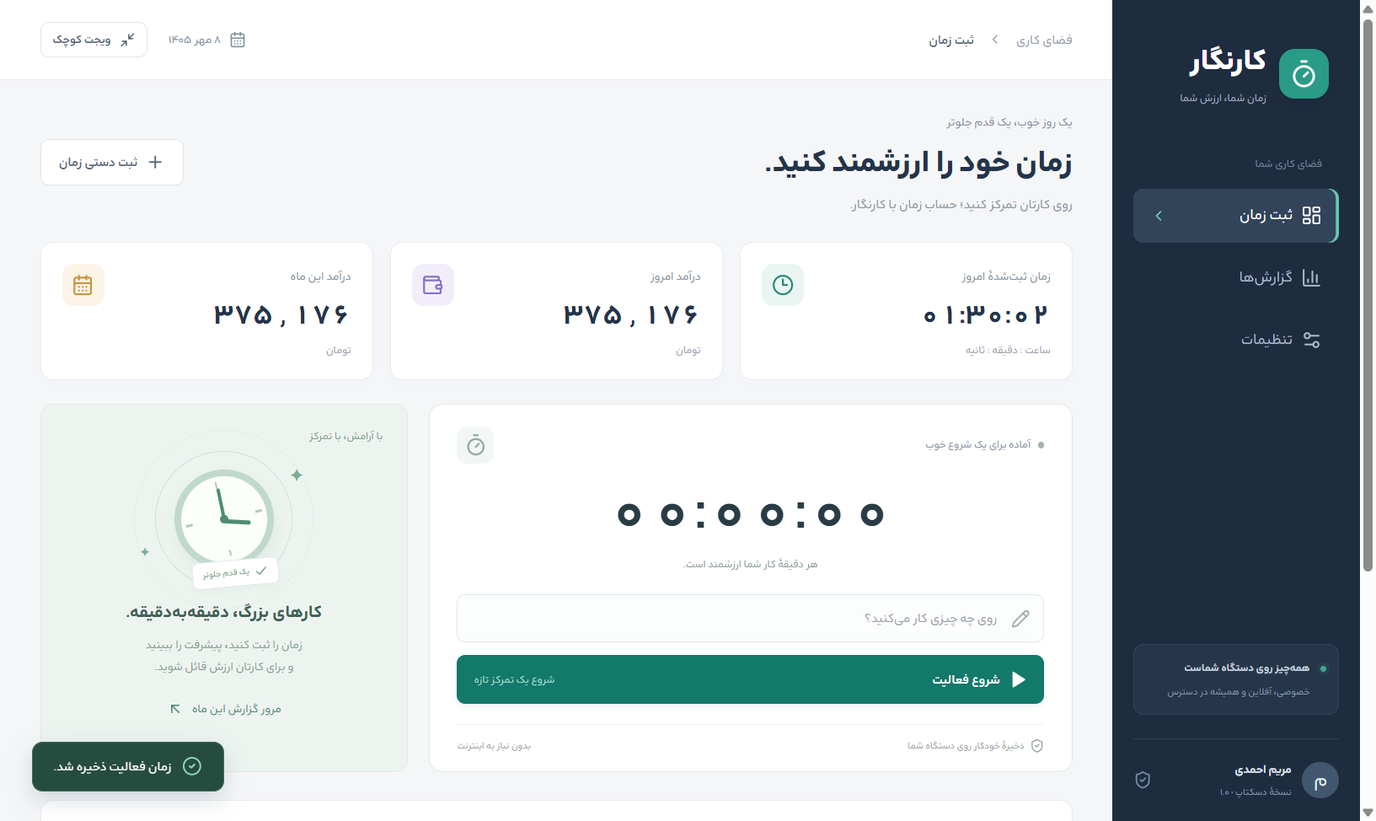
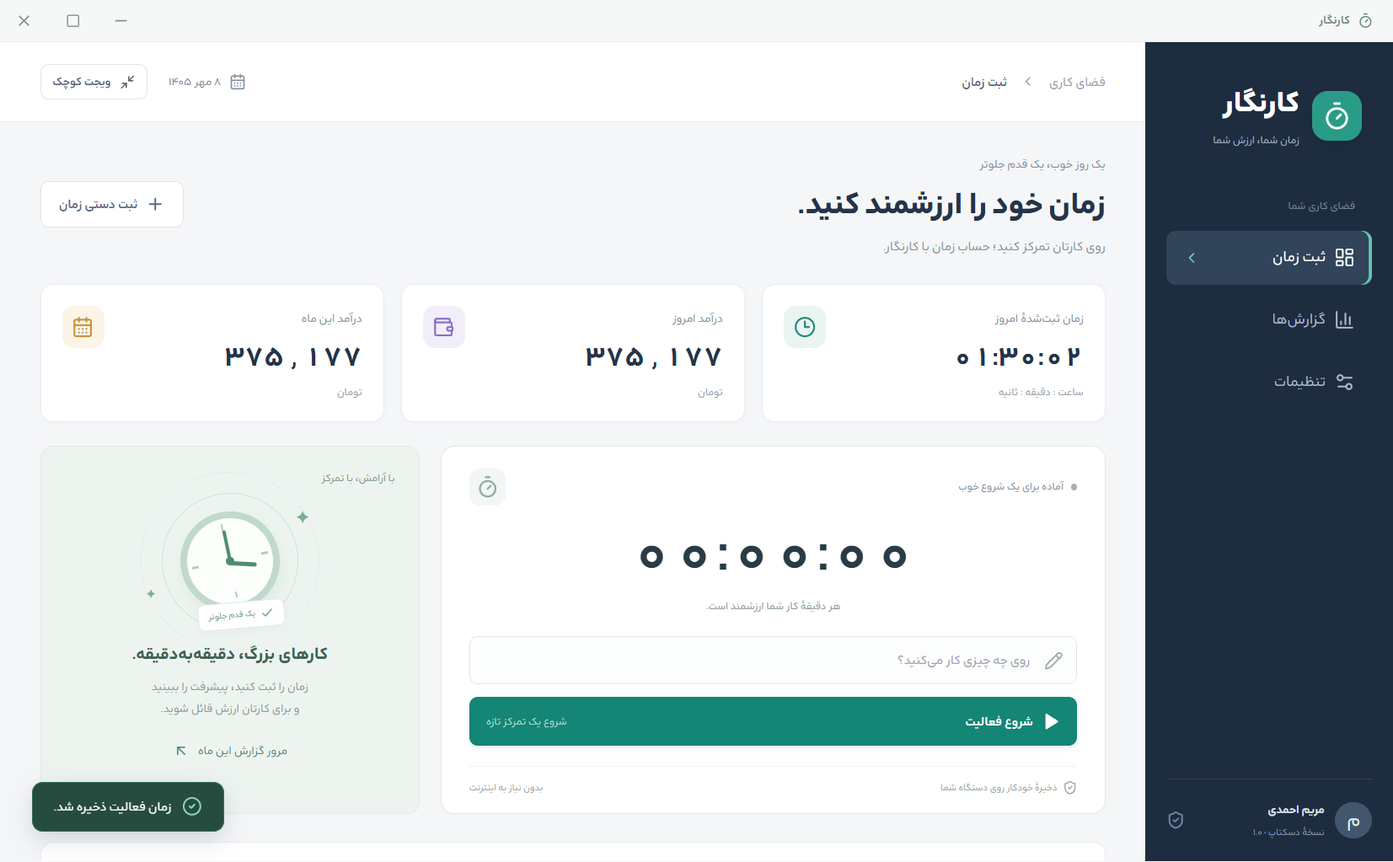
fix: keep timer running in tray and add custom window controls
Hide on close with Persian tray Open and Quit actions. Add minimize and maximize/restore controls, retain window state across widget mode, hide scrollbars and remove the sidebar privacy card. Verify hidden timer checkpoints and packaged app behavior, and rebuild version 1.0.1.

diff --git a/src/App.tsx b/src/App.tsx
@@ -1,6 +1,7 @@
 import { useEffect, useRef, useState, type FormEvent, type ReactNode } from 'react';
 import { ArrowDownToLine, ArrowLeft, ArrowUpLeft, BarChart3, CalendarDays, Check, CheckCircle2, ChevronLeft, Clock3, Coffee, Download, FileText, LayoutDashboard, Maximize2, Minimize2, Pause, Pencil, Play, Plus, Search, Settings2, ShieldCheck, Square, Timer, Trash2, Upload, Wallet, X } from 'lucide-react';
 import DatePicker from './DatePicker';
+import WindowBar from './WindowBar';
 import { activeDuration, checkpoint, dateLabel, digits, duration, emptyState, filtered, fromDate, finishActive, groupTasks, latin, localDate, number, pauseActive, rangePreset, totals, type Entry, type State } from './model';
 import { reportHTML } from './report';
 type Page = 'timer'|'reports'|'settings';
@@ -47,8 +48,9 @@ export default function App() {
   function entryTable(items:Entry[]){return <div className="table-scroll"><table className="entries-table"><thead><tr><th>فعالیت</th><th>مدت کار</th><th>نرخ ساعتی</th><th>درآمد</th><th></th></tr></thead><tbody>{entryRows(items)}</tbody></table></div>}
   function empty(){return <div className="empty"><span><Coffee size={30}/></span><h3>{page==='reports'?'زمانی در این بازه ثبت نشده':'اولین فعالیت خود را ثبت کنید'}</h3><p>{page==='reports'?'بازهٔ تاریخ یا عبارت جستوجو را تغییر دهید.':'با شروع زمانسنج یا ثبت دستی، مسیر کارتان را روشن کنید.'}</p>{page!=='reports'&&<button className="text-button" onClick={()=>openManual()}>ثبت دستی زمان <ArrowLeft size={15}/></button>}</div>}
   if(!loaded)return <div className="loading"><Timer size={36}/><p>{error||'کارنگار در حال آمادهشدن است…'}</p></div>;
-  return <div className={compact?'app compact':'app'}>
-    {!compact&&<aside className="sidebar"><div className="brand"><span className="brand-mark"><Timer size={28}/></span><div><strong>کارنگار</strong><small>زمان شما، ارزش شما</small></div></div><span className="nav-label">فضای کاری شما</span><nav>{([{id:'timer',label:'ثبت زمان',icon:LayoutDashboard},{id:'reports',label:'گزارشها',icon:BarChart3},{id:'settings',label:'تنظیمات',icon:Settings2}] as const).map(n=><button key={n.id} className={page===n.id?'active':''} onClick={()=>{setPage(n.id);setQuery('')}}><n.icon size={20}/>{n.label}{page===n.id&&<ChevronLeft size={16} className="nav-chevron"/>}</button>)}</nav><div className="sidebar-bottom"><div className="local-badge"><span className="status-dot live"/><div><strong>همهچیز روی دستگاه شماست</strong><small>خصوصی، آفلاین و همیشه در دسترس</small></div></div><div className="profile"><span className="avatar">{state.name?state.name.slice(0,1):'ک'}</span><div><strong>{state.name||'فضای کاری شخصی'}</strong><small>نسخهٔ دسکتاپ · ۱.۰</small></div><ShieldCheck size={18}/></div></div></aside>}
+  return <div className={`${compact?'app compact':'app'}${window.desktop?' desktop-app':''}`}>
+    <WindowBar/>
+    {!compact&&<aside className="sidebar"><div className="brand"><span className="brand-mark"><Timer size={28}/></span><div><strong>کارنگار</strong><small>زمان شما، ارزش شما</small></div></div><span className="nav-label">فضای کاری شما</span><nav>{([{id:'timer',label:'ثبت زمان',icon:LayoutDashboard},{id:'reports',label:'گزارشها',icon:BarChart3},{id:'settings',label:'تنظیمات',icon:Settings2}] as const).map(n=><button key={n.id} className={page===n.id?'active':''} onClick={()=>{setPage(n.id);setQuery('')}}><n.icon size={20}/>{n.label}{page===n.id&&<ChevronLeft size={16} className="nav-chevron"/>}</button>)}</nav><div className="sidebar-bottom"><div className="profile"><span className="avatar">{state.name?state.name.slice(0,1):'ک'}</span><div><strong>{state.name||'فضای کاری شخصی'}</strong><small>نسخهٔ دسکتاپ · ۱.۰</small></div><ShieldCheck size={18}/></div></div></aside>}
     <main>{compact?<div className="widget-heading"><div className="widget-brand"><Timer size={20}/> کارنگار</div><button className="icon-button" aria-label="نمای کامل" onClick={widget}><Maximize2 size={18}/></button></div>:<header className="topbar"><div className="breadcrumb">فضای کاری <ChevronLeft size={14}/><strong>{page==='timer'?'ثبت زمان':page==='reports'?'گزارشها':'تنظیمات'}</strong></div><div className="topbar-right"><span><CalendarDays size={16}/>{dateLabel(today,true)}</span><button className="outline small" onClick={widget}><Minimize2 size={15}/> ویجت کوچک</button></div></header>}
     <div className="content">{!compact&&<div className="page-heading"><div><span className="eyebrow">{page==='timer'?'یک روز خوب، یک قدم جلوتر':page==='reports'?'تصویر روشنتری از کارتان':'کارنگار، به سبک شما'}</span><h1>{page==='timer'?'زمان خود را ارزشمند کنید.':page==='reports'?'گزارش زمان و درآمد':'تنظیمات فضای کاری'}</h1><p>{page==='timer'?'روی کارتان تمرکز کنید؛ حساب زمان با کارنگار.':page==='reports'?'ببینید زمانتان کجا صرف شده و چقدر ارزش داشته است.':'نرخ کار و اطلاعات شخصی خود را مدیریت کنید.'}</p></div>{page==='timer'?<button className="outline" onClick={()=>openManual()}><Plus size={18}/> ثبت دستی زمان</button>:page==='reports'?<button className="primary" disabled={busy||!reportEntries.length} onClick={exportPDF}><Download size={17}/> {busy?'در حال آمادهسازی…':'دریافت گزارش PDF'}</button>:null}</div>}
     {warning&&!compact&&<div className="notice"><ShieldCheck size={18}/><span>{warning}</span><button className="icon-button" aria-label="بستن پیام" onClick={()=>setWarning('')}><X size={16}/></button></div>}
@@ -60,7 +62,7 @@ export default function App() {
     <div className="stats"><Stat icon={<Clock3 size={21}/>} label="مجموع زمان کار" value={duration(report.ms,true)} suffix="ساعت : دقیقه : ثانیه" tone="teal"/><Stat icon={<Wallet size={21}/>} label="درآمد این بازه" value={number(report.amount)} suffix="تومان" tone="purple"/><Stat icon={<CheckCircle2 size={21}/>} label="فعالیتهای انجامشده" value={number(report.tasks)} suffix={`${number(reportEntries.length)} ثبت زمان`} tone="amber"/></div>
     {reportEntries.length>0&&<div className="report-grid"><section className="card chart-card"><div className="section-heading"><div><h2>تقسیم زمان بین فعالیتها</h2><p>سهم هر فعالیت از زمان ثبتشده</p></div><BarChart3 size={19}/></div><div className="task-bars">{groups.slice(0,5).map((g,i)=><div className="task-bar" key={g.title}><div><span><i style={{background:colors[i]}}/>{g.title}</span><strong className="numeric" dir="ltr">{duration(g.ms,true)}</strong></div><div className="bar-track"><span style={{width:`${g.ms/report.ms*100}%`,background:colors[i]}}/></div></div>)}</div>{groups.length>5&&<p className="muted">{number(groups.length-5)} فعالیت دیگر در جدول جزئیات و PDF</p>}</section><section className="card report-note"><span className="note-icon"><FileText size={26}/></span><h3>گزارشی برای ارائه</h3><p>جزئیات فعالیتها، زمان کار و مبلغ نهایی؛ با تاریخ شمسی و فونت فارسی.</p><button className="outline" disabled={busy} onClick={exportPDF}><ArrowDownToLine size={16}/> خروجی PDF</button><small>مبلغ هر ثبت بر اساس نرخ همان فعالیت محاسبه میشود.</small></section></div>}
     <section className="card activities"><div className="section-heading"><div><h2>جزئیات فعالیتها <span className="count">{number(reportEntries.length)}</span></h2><p>{dateLabel(range[0],true)} تا {dateLabel(range[1],true)}</p></div><button className="text-button" onClick={()=>openManual()}><Plus size={16}/> ثبت زمان</button></div>{reportEntries.length?dates.map(date=><div className="day-group" key={date}><div className="day-heading"><span>{dateLabel(date,true)}</span><span>{number(totals(reportEntries.filter(e=>e.date===date)).amount)} تومان</span></div>{entryTable(reportEntries.filter(e=>e.date===date))}</div>):empty()}{reportEntries.length>0&&<div className="report-total"><strong>جمع کل این بازه</strong><span className="numeric" dir="ltr">{duration(report.ms,true)}</span><strong>{number(report.amount)} <small>تومان</small></strong></div>}</section><p className="report-footnote">مبالغ به نزدیکترین تومان گرد میشوند. زمان فعالیت در حال اجرا پس از «توقف و ذخیره» وارد گزارش میشود.</p></>}
-    {page==='settings'&&!compact&&<div className="settings-grid"><section className="card settings-card"><div className="section-heading"><div><h2>مشخصات و نرخ ساعتی</h2><p>ارزش یک ساعت از زمان شما</p></div><Wallet size={22}/></div><form onSubmit={saveSettings}><label className="form-label">نام شما <input maxLength={100} placeholder="نام و نام خانوادگی" value={nameInput} onChange={e=>setNameInput(e.target.value)}/></label><label className="form-label">دستمزد ساعتی (تومان / IRT)<div className="suffix-input"><input aria-label="دستمزد ساعتی" inputMode="decimal" placeholder="مثلاً ۲۵۰۰۰۰" value={rateInput} onChange={e=>setRateInput(e.target.value)}/><span>تومان</span></div></label><div className="settings-hint"><ShieldCheck size={19}/><p>نرخ جدید برای فعالیتهای بعدی استفاده میشود. نرخ فعالیتهای قبلی و زمانسنج جاری حفظ میشود؛ برای تغییر آنها، هر ثبت را ویرایش کنید.</p></div><button className="primary" type="submit" disabled={busy}><Check size={18}/> ذخیرهٔ تنظیمات</button></form></section><section className="card settings-card"><div className="section-heading"><div><h2>اطلاعات شما، در اختیار شما</h2><p>پشتیبانگیری و بازیابی</p></div><ShieldCheck size={22}/></div><p className="settings-description">اطلاعات فقط روی همین دستگاه ذخیره میشود. با گرفتن نسخهٔ پشتیبان، فعالیتها و تنظیمات خود را نگه دارید یا به دستگاه دیگری منتقل کنید.</p><button className="outline full" onClick={backup}><Download size={18}/> دریافت نسخهٔ پشتیبان</button><button className="outline full" disabled={!!a||!window.desktop} onClick={()=>setRestore(true)}><Upload size={18}/> بازیابی از فایل</button>{a&&<small className="muted">برای بازیابی، ابتدا زمانسنج را متوقف و ذخیره کنید.</small>}<div className="storage-path"><span>محل ذخیرهٔ اطلاعات</span><code dir="ltr">{dataPath}</code></div><div className="settings-hint"><Pause size={18}/><p>بستن برنامه یا خواب دستگاه، زمانسنج را مکث میکند. پس از بازگشت، برای ادامه دکمهٔ «ادامهٔ فعالیت» را بزنید.</p></div></section></div>}
+    {page==='settings'&&!compact&&<div className="settings-grid"><section className="card settings-card"><div className="section-heading"><div><h2>مشخصات و نرخ ساعتی</h2><p>ارزش یک ساعت از زمان شما</p></div><Wallet size={22}/></div><form onSubmit={saveSettings}><label className="form-label">نام شما <input maxLength={100} placeholder="نام و نام خانوادگی" value={nameInput} onChange={e=>setNameInput(e.target.value)}/></label><label className="form-label">دستمزد ساعتی (تومان / IRT)<div className="suffix-input"><input aria-label="دستمزد ساعتی" inputMode="decimal" placeholder="مثلاً ۲۵۰۰۰۰" value={rateInput} onChange={e=>setRateInput(e.target.value)}/><span>تومان</span></div></label><div className="settings-hint"><ShieldCheck size={19}/><p>نرخ جدید برای فعالیتهای بعدی استفاده میشود. نرخ فعالیتهای قبلی و زمانسنج جاری حفظ میشود؛ برای تغییر آنها، هر ثبت را ویرایش کنید.</p></div><button className="primary" type="submit" disabled={busy}><Check size={18}/> ذخیرهٔ تنظیمات</button></form></section><section className="card settings-card"><div className="section-heading"><div><h2>اطلاعات شما، در اختیار شما</h2><p>پشتیبانگیری و بازیابی</p></div><ShieldCheck size={22}/></div><p className="settings-description">اطلاعات فقط روی همین دستگاه ذخیره میشود. با گرفتن نسخهٔ پشتیبان، فعالیتها و تنظیمات خود را نگه دارید یا به دستگاه دیگری منتقل کنید.</p><button className="outline full" onClick={backup}><Download size={18}/> دریافت نسخهٔ پشتیبان</button><button className="outline full" disabled={!!a||!window.desktop} onClick={()=>setRestore(true)}><Upload size={18}/> بازیابی از فایل</button>{a&&<small className="muted">برای بازیابی، ابتدا زمانسنج را متوقف و ذخیره کنید.</small>}<div className="storage-path"><span>محل ذخیرهٔ اطلاعات</span><code dir="ltr">{dataPath}</code></div><div className="settings-hint"><Pause size={18}/><p>بستن پنجره، برنامه را به سینی سیستم میبرد و زمانسنج ادامه پیدا میکند. برای خروج کامل، روی آیکون کنار ساعت راستکلیک و «خروج از برنامه» را انتخاب کنید. خواب دستگاه، زمانسنج را مکث میکند.</p></div></section></div>}
     {!compact&&<footer className="app-footer"><span>کارنگار · زمان شما، ارزش شما</span><span><span className="status-dot"/> {busy?'در حال ذخیره…':'ذخیرهشده روی دستگاه'}</span></footer>}</div></main>
     {toast&&<div className="toast" role="status"><CheckCircle2 size={19}/>{toast}</div>}
     {form&&<Modal title={form.id?'ویرایش ثبت زمان':'ثبت دستی زمان'} close={()=>{if(!busy)setForm(null)}}><form onSubmit={submitEntry}><p className="modal-description">زمان کارتان را با تاریخ شمسی و نرخ ساعتی ثبت کنید.</p><label className="form-label">عنوان فعالیت<input aria-label="عنوان ثبت دستی" autoFocus maxLength={200} placeholder="مثلاً طراحی صفحهٔ اصلی" value={form.title} onChange={e=>setForm({...form,title:e.target.value})}/></label><DatePicker label="تاریخ فعالیت" value={form.date} onChange={v=>setForm({...form,date:v})}/><span className="form-label duration-label">مدت کار</span><div className="duration-inputs">{([{key:'hours',label:'ساعت'},{key:'minutes',label:'دقیقه'},{key:'seconds',label:'ثانیه'}] as const).map(f=><label key={f.key}><input aria-label={f.label} inputMode="numeric" placeholder="۰" value={form[f.key]} onChange={e=>setForm({...form,[f.key]:e.target.value})}/><span>{f.label}</span></label>)}</div><label className="form-label">نرخ ساعتی (تومان)<input aria-label="نرخ ثبت دستی" inputMode="decimal" value={form.rate} onChange={e=>setForm({...form,rate:e.target.value})}/></label><div className="manual-total"><span>مبلغ این فعالیت</span><strong>{number(Math.max(0,((Number(latin(form.hours))||0)+(Number(latin(form.minutes))||0)/60+(Number(latin(form.seconds))||0)/3600)*(Number(latin(form.rate))||0)))} تومان</strong></div>{formError&&<p className="field-error" role="alert">{formError}</p>}<div className="modal-actions"><button className="primary" type="submit" disabled={busy}><Check size={18}/> ذخیرهٔ زمان</button><button className="outline" type="button" disabled={busy} onClick={()=>setForm(null)}>انصراف</button></div></form></Modal>}

diff --git a/src/WindowBar.tsx b/src/WindowBar.tsx
@@ -1,0 +1,21 @@
+import { useEffect, useState } from 'react';
+import { Copy, Minus, Square, Timer, X } from 'lucide-react';
+
+export default function WindowBar() {
+  const [maximized, setMaximized] = useState(false);
+  useEffect(() => {
+    let alive = true;
+    const off = window.desktop?.onMaximized(setMaximized);
+    void window.desktop?.isMaximized().then(value => { if (alive) setMaximized(value); });
+    return () => { alive = false; off?.(); };
+  }, []);
+  if (!window.desktop) return null;
+  return <div className="window-titlebar">
+    <div className="window-brand"><Timer size={15}/><span>کارنگار</span></div>
+    <div className="window-controls">
+      <button className="window-close" aria-label="بستن پنجره" title="بستن پنجره و ادامه در سینی سیستم" onClick={() => void window.desktop?.windowControl('close')}><X size={17}/></button>
+      <button aria-label={maximized ? 'بازگرداندن اندازهٔ پنجره' : 'بزرگ کردن پنجره'} title={maximized ? 'بازگرداندن اندازهٔ پنجره' : 'بزرگ کردن پنجره'} onClick={() => void window.desktop?.windowControl('maximize')}>{maximized ? <Copy size={14}/> : <Square size={14}/>}</button>
+      <button aria-label="کوچک کردن پنجره" title="کوچک کردن پنجره" onClick={() => void window.desktop?.windowControl('minimize')}><Minus size={17}/></button>
+    </div>
+  </div>;
+}

diff --git a/src/window.css b/src/window.css
@@ -1,0 +1,38 @@
+/* Hide scrollbars while preserving wheel, touchpad and keyboard scrolling. */
+* { scrollbar-width: none; }
+*::-webkit-scrollbar { display: none; width: 0; height: 0; }
+
+.desktop-app { padding-top: 40px; }
+.desktop-app .sidebar { top: 40px; }
+.window-titlebar {
+  position: fixed;
+  inset: 0 0 auto;
+  height: 40px;
+  z-index: 25;
+  display: flex;
+  align-items: center;
+  justify-content: space-between;
+  padding-right: 19px;
+  color: #6e8b80;
+  background: #f5f8f6;
+  border-bottom: 1px solid #e4ebe7;
+  user-select: none;
+  -webkit-app-region: drag;
+  app-region: drag;
+}
+.window-brand { display: flex; align-items: center; gap: 7px; font-size: 11px; font-weight: 600; }
+.window-controls { display: flex; height: 100%; direction: ltr; -webkit-app-region: no-drag; app-region: no-drag; }
+.window-controls button {
+  width: 46px;
+  padding: 0;
+  border-radius: 0;
+  background: transparent;
+  color: #84978e;
+  -webkit-app-region: no-drag;
+  app-region: no-drag;
+}
+.window-controls button:hover { background: #e6eee9; color: #477664; }
+.window-controls .window-close:hover { background: #cc5d66; color: white; }
+.window-controls button:focus-visible { outline-offset: -4px; }
+.window-controls button:active { transform: none; }
+.compact .window-titlebar { background: #f4f7f5; }

diff --git a/src/global.d.ts b/src/global.d.ts
@@ -1,2 +1,2 @@
 import type { State } from './model';
-declare global { interface Window { desktop?: { load(): Promise<{state:State;warning:string;dataPath:string}>; save(state:State):Promise<boolean>; exportPDF(html:string):Promise<boolean>; backup():Promise<boolean>; importBackup():Promise<State|null>; widget(compact:boolean):Promise<boolean>; onState(callback:(s:State)=>void):()=>void } } }
+declare global { interface Window { desktop?: { load(): Promise<{state:State;warning:string;dataPath:string}>; save(state:State):Promise<boolean>; exportPDF(html:string):Promise<boolean>; backup():Promise<boolean>; importBackup():Promise<State|null>; widget(compact:boolean):Promise<boolean>; windowControl(action:'minimize'|'close'|'maximize'):Promise<void>; isMaximized():Promise<boolean>; onMaximized(callback:(maximized:boolean)=>void):()=>void; onState(callback:(s:State)=>void):()=>void } } }

diff --git a/src/main.tsx b/src/main.tsx
@@ -2,4 +2,5 @@ import React from 'react';
 import { createRoot } from 'react-dom/client';
 import App from './App';
 import './styles.css';
+import './window.css';
 createRoot(document.getElementById('root')!).render(<React.StrictMode><App/></React.StrictMode>);

diff --git a/README.md b/README.md
@@ -6,6 +6,8 @@
 
 - شروع، مکث، ادامه و توقف زمانسنج با عنوان فعالیت
 - ویجت کوچک همیشه روی پنجرهها
+- ادامهٔ زمانسنج در سینی سیستم پس از بستن پنجره، با منوی بازکردن و خروج
+- نوار عنوان اختصاصی با دکمههای بستن، کوچککردن و بزرگکردن/بازگرداندن اندازه، بدون نوار پیمایش نمایان
 - ثبت دستی، ویرایش و حذف زمان با تأیید حذف
 - نرخ ساعتی به تومان (IRT)، با حفظ نرخ هر ثبت
 - انتخاب تاریخ جلالی؛ بازههای امروز، هفته از شنبه، ماه شمسی و بازهٔ دلخواه
@@ -15,11 +17,11 @@
 
 ## نصب و اجرا
 
-برای نصب، `Kaarnegar-Setup-1.0.0.exe` را از بخش Releases گیتهاب دانلود و اجرا کنید. نصبکننده امکان انتخاب زبان فارسی یا انگلیسی و مسیر نصب را دارد و میانبر «کارنگار» را روی دسکتاپ و منوی شروع ایجاد میکند. برنامه و فایل اجرایی آن دارای آیکون اختصاصی هستند.
+برای نصب، `Kaarnegar-Setup-1.0.1.exe` را از بخش Releases گیتهاب دانلود و اجرا کنید. نصبکننده امکان انتخاب زبان فارسی یا انگلیسی و مسیر نصب را دارد و میانبر «کارنگار» را روی دسکتاپ و منوی شروع ایجاد میکند. برنامه و فایل اجرایی آن دارای آیکون اختصاصی هستند.
 
 برای اجرای بدون نصب، از نسخهٔ قابلحمل `Kaarnegar.exe` استفاده کنید. فایلهای ساختهشده در پوشهٔ `release` قرار میگیرند. نیازی به Node.js، اینترنت یا نصب فونت ندارید؛ آراد در برنامه و فایلهای PDF جاسازی شده است. حذف برنامه، اطلاعات کار را پاک نمیکند.
 
-در تنظیمات نام و نرخ ساعتی خود را ذخیره کنید، سپس عنوان فعالیت را وارد و زمانسنج را شروع کنید. «توقف و ذخیره» فعالیت را وارد گزارش میکند. مکث، بستن برنامه و خواب دستگاه، زمانسنج را مکث میکنند؛ برای ادامه دکمهٔ ادامه را بزنید.
+در تنظیمات نام و نرخ ساعتی خود را ذخیره کنید، سپس عنوان فعالیت را وارد و زمانسنج را شروع کنید. «توقف و ذخیره» فعالیت را وارد گزارش میکند. بستن پنجره یا Alt+F4 برنامه را در سینی سیستم نگه میدارد و زمانسنج ادامه پیدا میکند. روی آیکون کارنگار کنار ساعت ویندوز کلیک کنید یا از منوی راستکلیک «باز کردن برنامه» را انتخاب کنید. برای بستن کامل، «خروج از برنامه» را از همان منو بزنید؛ زمانسنج پیش از خروج ذخیره و مکث میشود. خواب دستگاه نیز زمانسنج را مکث میکند. با وجود پنهانبودن نوار پیمایش، پیمایش با چرخ ماوس، صفحهلمسی و صفحهکلید امکانپذیر است.
 
 نرخ فعالیت در زمان شروع یا ثبت دستی ذخیره میشود. تغییر تنظیمات نرخ، گزارشهای قبلی یا زمانسنج جاری را تغییر نمیدهد. نرخ یک ثبت را میتوانید از دکمهٔ ویرایش همان ثبت تغییر دهید.
 
@@ -63,11 +65,11 @@ Create an empty GitHub repository named `kaarnegar`, then run these commands ins
 ```powershell
 git remote add origin https://github.com/YOUR_USERNAME/kaarnegar.git
 git push -u origin main
-git tag v1.0.0
-git push origin v1.0.0
+git tag v1.0.1
+git push origin v1.0.1
 ```
 
-The included GitHub Actions workflow builds and tests on Windows when a version tag is pushed, or when run manually. Download the `Kaarnegar-Windows` artifact from Actions. Create a GitHub Release for `v1.0.0` and attach `Kaarnegar-Setup-1.0.0.exe` and `Kaarnegar.exe`. Build outputs and personal work data are excluded from Git; distribute binaries through Releases.
+The included GitHub Actions workflow builds and tests on Windows when a version tag is pushed, or when run manually. Download the `Kaarnegar-Windows` artifact from Actions. Create a GitHub Release for `v1.0.1` and attach `Kaarnegar-Setup-1.0.1.exe` and `Kaarnegar.exe`. Build outputs and personal work data are excluded from Git; distribute binaries through Releases.
 
 The generated executables are unsigned. To distribute signed builds, configure your Windows code-signing credentials and enable `build.win.signExecutable`. The source repository contains no signing certificates or account credentials.
 
